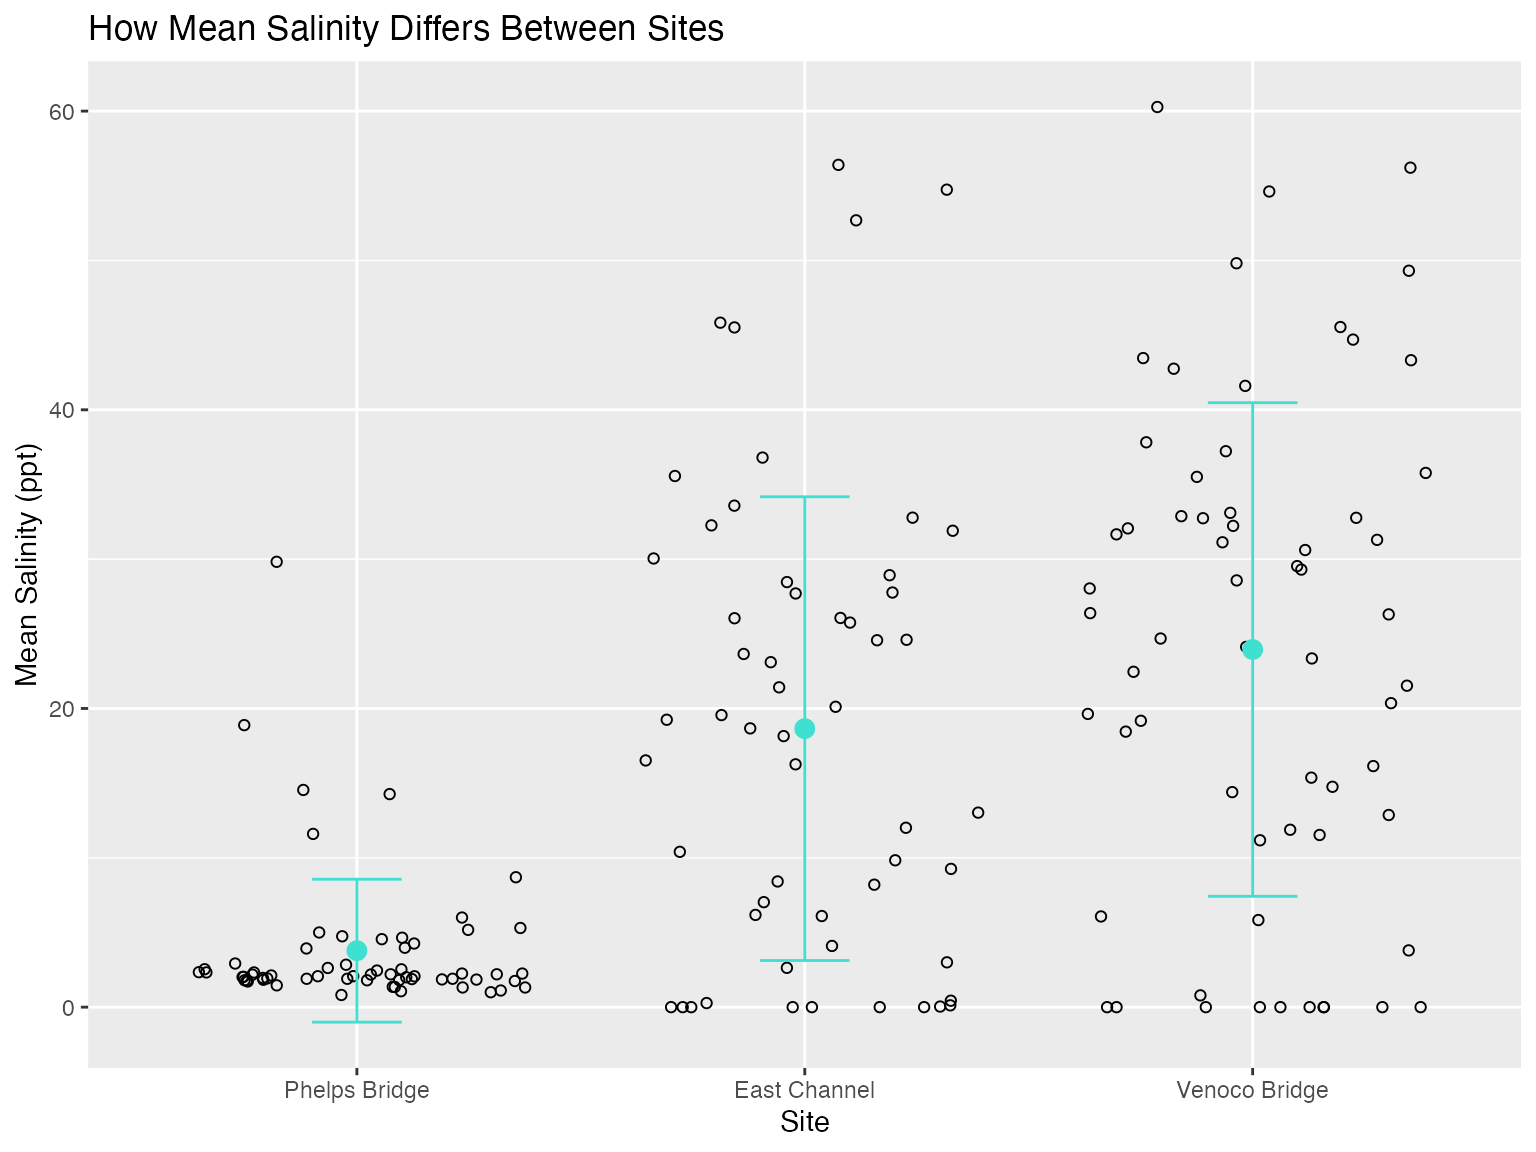
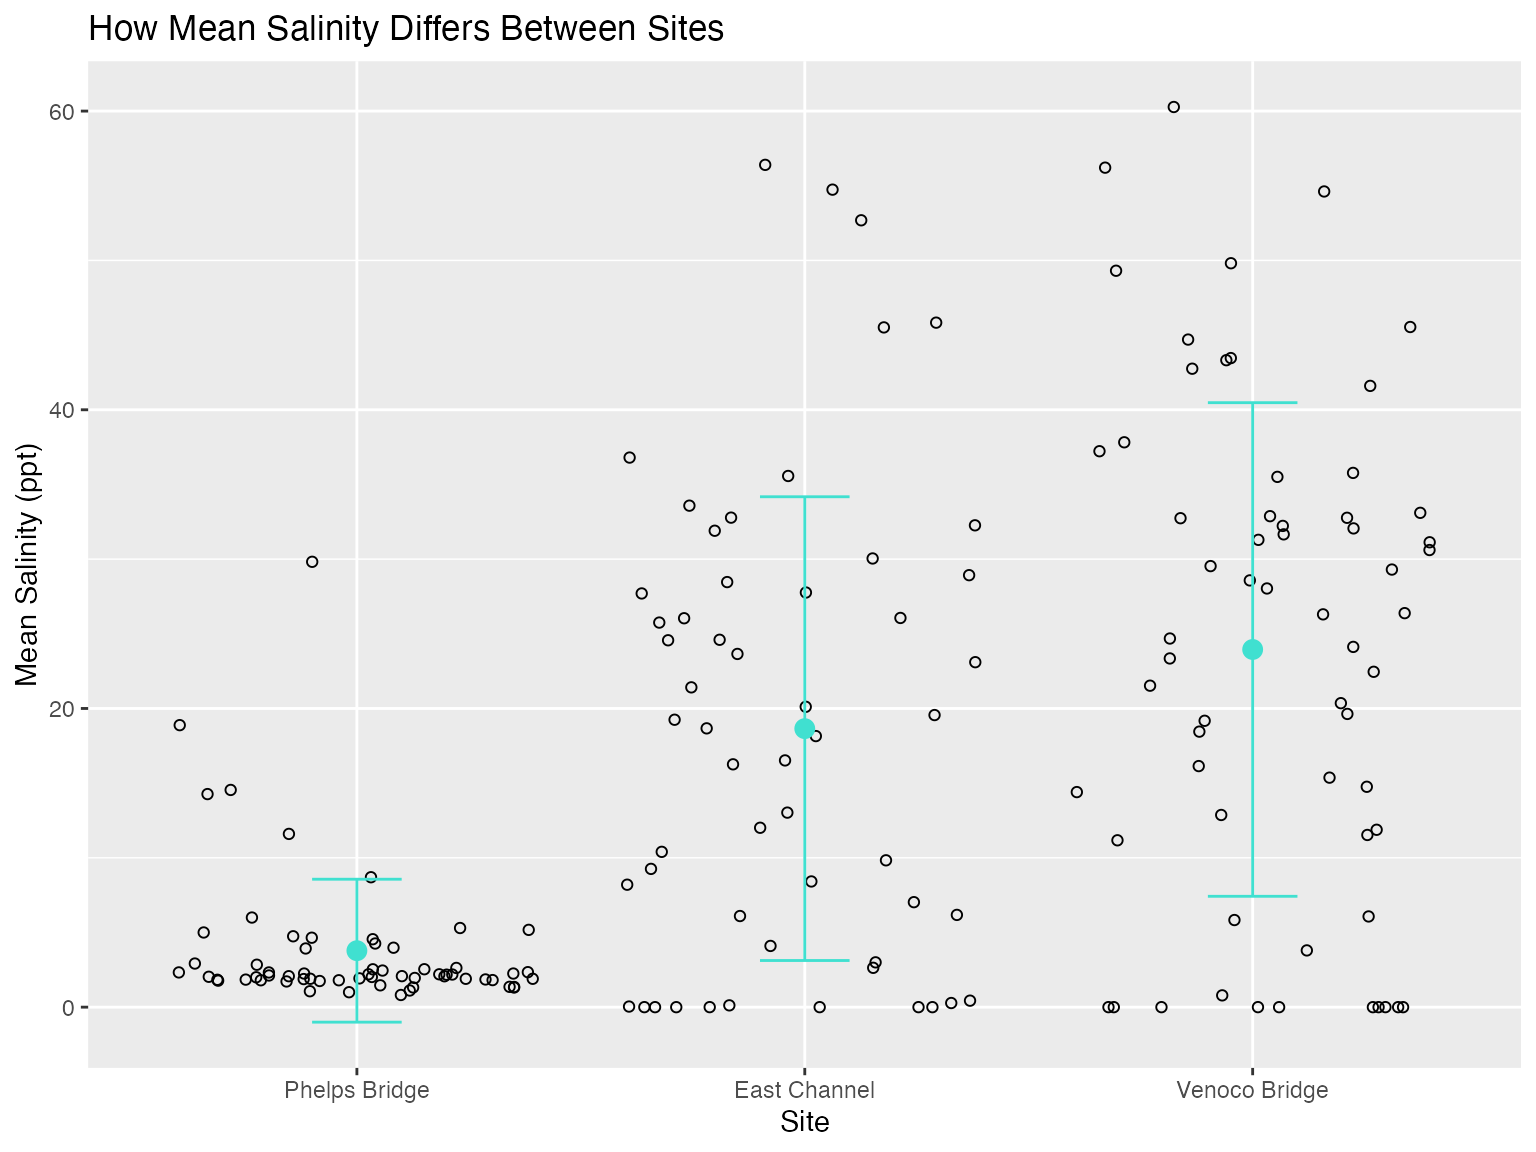
adding link to rendered output in readme

diff --git a/timeline-check-in/timeline_check-in.html b/timeline-check-in/timeline_check-in.html
@@ -84,7 +84,9 @@ pre > code.sourceCode > span > a:first-child::before { text-decoration: underlin
     <h2 id="toc-title">Table of contents</h2>
    
   <ul>
-  <li><a href="#packages" id="toc-packages" class="nav-link active" data-scroll-target="#packages">Packages</a></li>
+  <li><a href="#set-up" id="toc-set-up" class="nav-link active" data-scroll-target="#set-up">1. Set up</a>
+  <ul class="collapse">
+  <li><a href="#packages" id="toc-packages" class="nav-link" data-scroll-target="#packages">Packages</a></li>
   <li><a href="#data" id="toc-data" class="nav-link" data-scroll-target="#data">Data</a></li>
   <li><a href="#cleaning-code" id="toc-cleaning-code" class="nav-link" data-scroll-target="#cleaning-code">Cleaning Code</a>
   <ul class="collapse">
@@ -110,6 +112,10 @@ pre > code.sourceCode > span > a:first-child::before { text-decoration: underlin
   <li><a href="#exploring-water-surface-elevation" id="toc-exploring-water-surface-elevation" class="nav-link" data-scroll-target="#exploring-water-surface-elevation">Exploring Water Surface Elevation</a></li>
   <li><a href="#creating-precipitation-peaks" id="toc-creating-precipitation-peaks" class="nav-link" data-scroll-target="#creating-precipitation-peaks">Creating Precipitation Peaks</a></li>
   </ul></li>
+  </ul></li>
+  <li><a href="#ideas-for-analysis-and-background" id="toc-ideas-for-analysis-and-background" class="nav-link" data-scroll-target="#ideas-for-analysis-and-background">2. Ideas for analysis and background</a></li>
+  <li><a href="#visualizations-directly-relevant-to-answering-questions" id="toc-visualizations-directly-relevant-to-answering-questions" class="nav-link" data-scroll-target="#visualizations-directly-relevant-to-answering-questions">3. Visualizations directly relevant to answering questions</a>
+  <ul class="collapse">
   <li><a href="#figures" id="toc-figures" class="nav-link" data-scroll-target="#figures">Figures</a>
   <ul class="collapse">
   <li><a href="#figure-1.---monthly-precipitation-at-ncos-time-series-w-rain-event-lines" id="toc-figure-1.---monthly-precipitation-at-ncos-time-series-w-rain-event-lines" class="nav-link" data-scroll-target="#figure-1.---monthly-precipitation-at-ncos-time-series-w-rain-event-lines">Figure 1. - Monthly Precipitation at NCOS (Time Series w/ Rain Event Lines)</a></li>
@@ -123,6 +129,9 @@ pre > code.sourceCode > span > a:first-child::before { text-decoration: underlin
   <li><a href="#calculating-spearmans-correlation" id="toc-calculating-spearmans-correlation" class="nav-link" data-scroll-target="#calculating-spearmans-correlation">Calculating Spearman’s Correlation</a></li>
   <li><a href="#interpreting-the-results" id="toc-interpreting-the-results" class="nav-link" data-scroll-target="#interpreting-the-results">Interpreting the Results</a></li>
   </ul></li>
+  </ul></li>
+  <li><a href="#other-exploratory-visualizations" id="toc-other-exploratory-visualizations" class="nav-link" data-scroll-target="#other-exploratory-visualizations">4. Other exploratory visualizations</a>
+  <ul class="collapse">
   <li><a href="#comparing-across-groups" id="toc-comparing-across-groups" class="nav-link" data-scroll-target="#comparing-across-groups">Comparing Across Groups</a>
   <ul class="collapse">
   <li><a href="#boxplot-w-jitter---distribution-of-mean-salinity-values-across-sites" id="toc-boxplot-w-jitter---distribution-of-mean-salinity-values-across-sites" class="nav-link" data-scroll-target="#boxplot-w-jitter---distribution-of-mean-salinity-values-across-sites">Boxplot w/ Jitter - Distribution of Mean Salinity Values Across Sites</a></li>
@@ -134,6 +143,8 @@ pre > code.sourceCode > span > a:first-child::before { text-decoration: underlin
   <li><a href="#of-observations-per-site" id="toc-of-observations-per-site" class="nav-link" data-scroll-target="#of-observations-per-site"># of Observations per Site</a></li>
   <li><a href="#of-observations-per-elevation-code" id="toc-of-observations-per-elevation-code" class="nav-link" data-scroll-target="#of-observations-per-elevation-code"># of Observations per Elevation Code</a></li>
   </ul></li>
+  </ul></li>
+  <li><a href="#plan-for-elective" id="toc-plan-for-elective" class="nav-link" data-scroll-target="#plan-for-elective">5. Plan for Elective</a></li>
   </ul>
 </nav>
 </div>
@@ -170,7 +181,8 @@ pre > code.sourceCode > span > a:first-child::before { text-decoration: underlin
 </header>
 
 
-<p>#1. Set up</p>
+<section id="set-up" class="level1">
+<h1>1. Set up</h1>
 <section id="packages" class="level2">
 <h2 class="anchored" data-anchor-id="packages">Packages</h2>
 <div class="cell">
@@ -584,7 +596,11 @@ dbl (7): ObjectID, Depth Code, DO (mg/L), DO (%sat), Conductivity (uS/cm), S...
 <span id="cb34-16"><a href="#cb34-16" aria-hidden="true" tabindex="-1"></a>  <span class="fu">mutate</span>(<span class="at">label_y_2 =</span> <span class="fu">rep</span>(<span class="fu">c</span>(<span class="dv">40</span>, <span class="dv">45</span>, <span class="dv">40</span>, <span class="dv">50</span>), <span class="at">times =</span> <span class="dv">3</span>))</span></code></pre></div><button title="Copy to Clipboard" class="code-copy-button"><i class="bi"></i></button></div>
 </div>
 <p>\\\\\\\\\\\\\\\\\\\\\\\\\\\\\\\\\\\\\\\</p>
-<p>#2. Ideas for analysis and background</p>
+</section>
+</section>
+</section>
+<section id="ideas-for-analysis-and-background" class="level1">
+<h1>2. Ideas for analysis and background</h1>
 <p>The overarching question for our project is: How does precipitation explain salinity?</p>
 <p>We expect that more precipitation will generally lead to lower salinity because rainfall adds freshwater and dilutes saltier water. However, salinity is also affected by water depth, evaporation and whether the ecosystem is connected to the ocean.</p>
 <p>This is especially relevant as North Campus Open Space is a connected coastal wetland system. Because of this, the salinity is influenced by more than rainfall alone. Harrington and Wood (2014), although focused on an Australian wetland, help support this idea by showing that ocean-driven saltwater movement can also affect salinity. Rainfall can lower salinity by adding freshwater, while sea-level changes and saltwater entering the system can raise salinity again.</p>
@@ -597,9 +613,9 @@ dbl (7): ObjectID, Depth Code, DO (mg/L), DO (%sat), Conductivity (uS/cm), S...
 <p>We also chose to use Spearman’s correlation coefficient to test whether salinity tends to decrease as precipitation increases.</p>
 <p>The test gave a coefficient value of 0.0166 and p-value of 0.8251, suggesting that precipitation alone does not strongly explain salinity.</p>
 <p>\\\\\\\\\\\\\\\\\\\\\\\\\\\\\\\\\\\\\\\</p>
-<p>#3. Visualizations directly relevant to answering questions</p>
 </section>
-</section>
+<section id="visualizations-directly-relevant-to-answering-questions" class="level1">
+<h1>3. Visualizations directly relevant to answering questions</h1>
 <section id="figures" class="level2">
 <h2 class="anchored" data-anchor-id="figures">Figures</h2>
 <section id="figure-1.---monthly-precipitation-at-ncos-time-series-w-rain-event-lines" class="level3">
@@ -826,9 +842,11 @@ sample estimates:
 <section id="interpreting-the-results" class="level3">
 <h3 class="anchored" data-anchor-id="interpreting-the-results">Interpreting the Results</h3>
 <p>A Spearman’s rank correlation was conducted to examine the relationship between monthly precipitation and monthly average salinity. Results indicated no statistically significant relationship between the two variables (rho = 0.017, S = 939,961, p = 0.825). The near-zero rho suggests that monthly precipitation has negligible association with average salinity at this scale. It should be noted that exact p-values could not be computed due to ties in the data, so a normal approximation was used; this does not meaningfully affect the interpretation. These results may reflect lag effects between precipitation events and salinity response, spatial or hydrological disconnect between measurement sites, or the influence of other drivers, such as evaporation or tidal exchange, that operate independently of local precipitation.</p>
-<p>#4. Other exploratory visualizations</p>
 </section>
 </section>
+</section>
+<section id="other-exploratory-visualizations" class="level1">
+<h1>4. Other exploratory visualizations</h1>
 <section id="comparing-across-groups" class="level2">
 <h2 class="anchored" data-anchor-id="comparing-across-groups">Comparing Across Groups</h2>
 <section id="boxplot-w-jitter---distribution-of-mean-salinity-values-across-sites" class="level3">
@@ -959,9 +977,12 @@ sample estimates:
 <p>Both of these figures were added last-minute to the work plan after our data visualization presentation in class. We feel that the addition of this information is important in contextualizing our outputs. Venoco Bridge has the most amount of observations, followed by Phelps Bridge, and finally, East Channel. We can also see that elevation code 1 has the most amount of observations, followed by 0, and finally, 2. Understanding the distribution of observations allows for the appropriate selection of statistical methods, correct interpretation of analytical results, and effective and accurate communication of findings.</p>
 <p>\\\\\\\\\\\\\\\\\\\\\\\\\\\\\\\\\\\\\\\<br>
 </p>
-<p>#5. Plan for Elective</p>
-<p>For our elective, we have chosen to create a map of the NCOS area depicting the different keystone species that breed, live, and migrate through these areas. The map will depict water levels from spring of 2023, and be modeled after other NCOS maps online. The map will specifically point to locations such as Phelps Bridge, East Channel, and Venoco Bridge, representing our three main points in our data analysis process. At each site I will choose pictures of different keystone organisms that live in these areas, as well as their preferred salinity conditions according to outside local research. The map will be made of collaged paper materials, and will have additional pictures of the organisms that live and exist there. For each organism, there will be their ideal salinity condition (shown through cups of salt or another visual model) next to the organism, to depict the condiitons they prefer to live in. The description of the image will be one map that is multimedia and will be handmade and depict a map. Over the next two weeks, our group will collect the adequate materials in the next week, print out an example map to add our collage materials over it, look at water levels for the 2023 year and adjust as necessary, and research organisms specific to the NCOS site. Before the end of the week 9 weekend, we will have all materials collected and information logged on a shared google doc so that all parties can contribute and see the research and materials needed. Over the week 9 weekend, group members will select a time to meet up and work artistically on the project, and finishing touches will be made in the remaining time before it is due, including working on a presentation format.</p>
 </section>
+</section>
+</section>
+<section id="plan-for-elective" class="level1">
+<h1>5. Plan for Elective</h1>
+<p>For our elective, we have chosen to create a map of the NCOS area depicting the different keystone species that breed, live, and migrate through these areas. The map will depict water levels from spring of 2023, and be modeled after other NCOS maps online. The map will specifically point to locations such as Phelps Bridge, East Channel, and Venoco Bridge, representing our three main points in our data analysis process. At each site I will choose pictures of different keystone organisms that live in these areas, as well as their preferred salinity conditions according to outside local research. The map will be made of collaged paper materials, and will have additional pictures of the organisms that live and exist there. For each organism, there will be their ideal salinity condition (shown through cups of salt or another visual model) next to the organism, to depict the condiitons they prefer to live in. The description of the image will be one map that is multimedia and will be handmade and depict a map. Over the next two weeks, our group will collect the adequate materials in the next week, print out an example map to add our collage materials over it, look at water levels for the 2023 year and adjust as necessary, and research organisms specific to the NCOS site. Before the end of the week 9 weekend, we will have all materials collected and information logged on a shared google doc so that all parties can contribute and see the research and materials needed. Over the week 9 weekend, group members will select a time to meet up and work artistically on the project, and finishing touches will be made in the remaining time before it is due, including working on a presentation format.</p>
 </section>
 
 </main>
